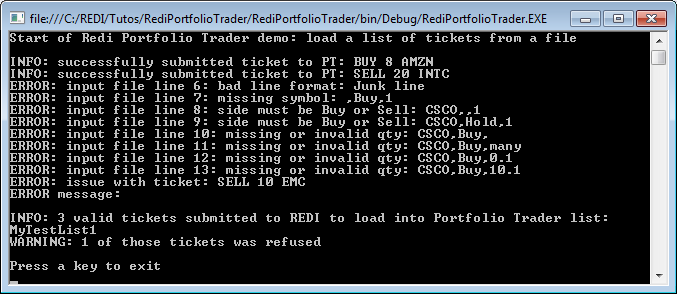
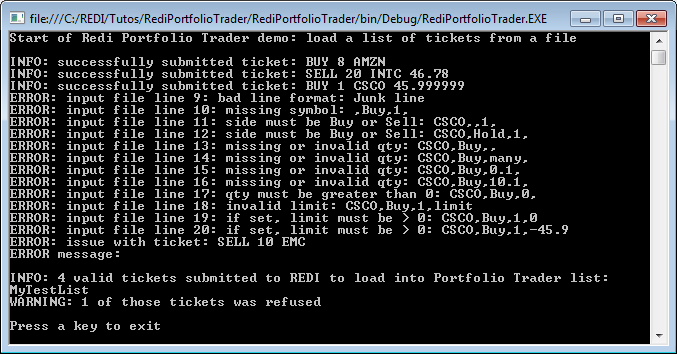
Version 2, added LimitPrice

Changed region(s): [[0.0, 0.0, 1.0, 1.0], [0.9926, 0.3367, 1.0, 0.4286]]

diff --git a/REDIPortfolioTrader/RediPortfolioTrader.cs b/REDIPortfolioTrader/RediPortfolioTrader.cs
@@ -22,19 +22,20 @@ namespace RediPortfolioTrader
         //Fill these according to your credentials and environment:
         private static string rediUserName = "YourREDIUserId";
         private static string rediAccount = "YourREDIAccount";
-        
-        private static string rediPortfolioTraderListName = "MyTestList1";
+
+        private static string rediPortfolioTraderListName = "MyTestList";
 
         private static string inputDirectory = "C:\\REDI\\Tutos\\RediPortfolioTrader\\";
         private static string ticketInputFile = inputDirectory + "PTListDemo.csv";
         //File format defined for this sample (this is not a standard, just an example):
         //1 ticket per line.
-        //Line format: <symbol>, <side (Buy or Sell)>, <quantity>
+        //Line format: <symbol>, <side (Buy or Sell)>, <quantity>, <limit price>
+        //Limit price is optional
         //Line starting with # is a comment
         //Example lines:
-        //#Symbol,Side,Qty
+        //#Symbol,Side,Qty,Limit
         //WEN,Buy,10
-        //INTC,Sell,20
+        //INTC,Sell,20,46.78
 
         private static string outputDirectory = inputDirectory;
         private static string logFileName = "RediPortfolioTrader";  //This code will add a timestamp and .log
@@ -94,12 +95,13 @@ namespace RediPortfolioTrader
             //Read input file, do some rudimentary validation on the entries.
             //For each valid entry: send order  to the Portfolio Trader list:
             //-----------------------------------------------------------------
-            String symbol, side, qty;
+            String symbol, side, qty, limit;
             String fileLine = string.Empty;
             int fileLineNumber = 0;
             int validOrdersCount = 0;
             int failedToSubmitCount = 0;
             int quantity = 0;
+            double limitPrice = 0;
             bool ignoreLine, success;
             bool endOfFile = false;
 
@@ -126,9 +128,10 @@ namespace RediPortfolioTrader
                             //Parse the file line to extract the comma separated ticket parameters:
                             string[] splitLine = fileLine.Split(new char[] { ',' });
                             symbol = splitLine[0];
-                            side = splitLine[1];
-                            qty = splitLine[2];
-                            //Validate orders parameters. If valid, submit order:
+                            side =   splitLine[1];
+                            qty =    splitLine[2];
+                            limit =  splitLine[3];
+                            //Validate ticket parameters. If valid, submit order:
                             if (!String.IsNullOrEmpty(symbol))
                             {
                                 if (side == "Buy" || side == "Sell")
@@ -137,12 +140,30 @@ namespace RediPortfolioTrader
                                     {
                                         if (quantity >= 1)
                                         {
-                                            validOrdersCount++;
-                                            //Send order to the Portfolio Trader list:
-                                            success = ptOrderSubmit(symbol, side, qty,
-                                                                    rediAccount, rediUserName, rediPortfolioTraderListName,
-                                                                    swLog);
-                                            if (!success) failedToSubmitCount++;
+                                            limitPrice = 0;
+                                            if (String.IsNullOrEmpty(limit) || double.TryParse(limit, out limitPrice))
+                                            {
+                                                if (String.IsNullOrEmpty(limit) || limitPrice > 0)
+                                                {
+                                                    validOrdersCount++;
+                                                    //Send ticket to the Portfolio Trader list:
+                                                    success = ptOrderSubmit(symbol, side, quantity, limitPrice,
+                                                                            rediAccount, rediUserName, rediPortfolioTraderListName,
+                                                                            swLog);
+                                                    if (!success) failedToSubmitCount++;
+                                                }
+                                                else
+                                                {
+                                                    DebugPrint("ERROR: input file line " + fileLineNumber +
+                                                        ": if set, limit must be > 0: " + fileLine, swLog);
+                                                }
+                                            }
+                                            else
+                                            {
+                                                DebugPrint("ERROR: input file line " + fileLineNumber +
+                                                    ": invalid limit: " + fileLine, swLog);
+                                            }
+
                                         }
                                         else
                                         {
@@ -216,7 +237,8 @@ namespace RediPortfolioTrader
             Console.ReadLine();
         }
 
-        static bool ptOrderSubmit(String symbol, String side, String qty, String accnt, String tfUser, String tfList,
+        static bool ptOrderSubmit(String symbol, String side, int qty, double limit,
+                                  String accnt, String tfUser, String tfList,
                                   StreamWriter sw)
         {
             ORDER ptOrder = new ORDER();
@@ -227,21 +249,26 @@ namespace RediPortfolioTrader
             ptOrder.Side = side;
             ptOrder.Quantity = qty;
             ptOrder.Exchange = "*ticket";  //PT is a bunch of tickets
+            if (limit > 0) ptOrder.Price = limit;  //ptOrder.Exchange must be set before ptOrder.Price (otherwise this will be ignored)
+
             ptOrder.Account = accnt;
             ptOrder.SetTFUser(tfUser);
             ptOrder.SetTFList(tfList);
 
+            ptOrder.Warning = false;  //Disable the pop-up warning for invalid limit price
+
             success = ptOrder.Submit(ref err);
             if (!success)
             {
-                DebugPrint("ERROR: issue with ticket: " + ptOrder.Side + " " + ptOrder.Quantity + " " + ptOrder.Symbol, sw);
+                DebugPrint("ERROR: issue with ticket: " +
+                           ptOrder.Side + " " + ptOrder.Quantity + " " + ptOrder.Symbol + " " + ptOrder.Price, sw);
                 //Note: the error message might be empty, it depends on the error case
                 DebugPrint("ERROR message: " + err, sw);
             }
             else
             {
-                DebugPrint("INFO: successfully submitted ticket to PT: " +
-                           ptOrder.Side + " " + ptOrder.Quantity + " " + ptOrder.Symbol, sw);
+                DebugPrint("INFO: successfully submitted ticket: " +
+                           ptOrder.Side + " " + ptOrder.Quantity + " " + ptOrder.Symbol + " " + ptOrder.Price, sw);
             }
             return success;
         }
